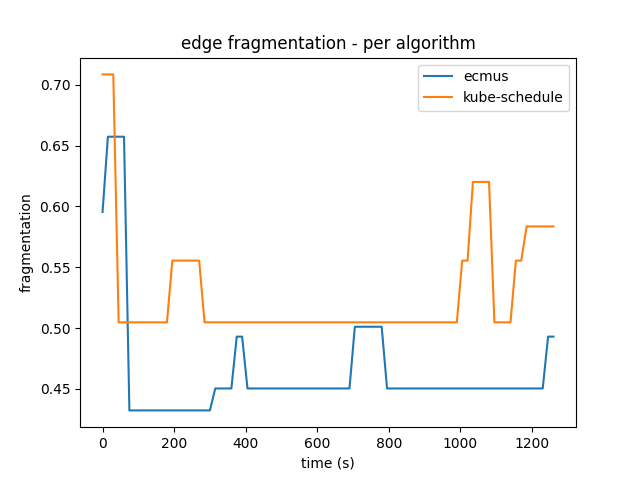
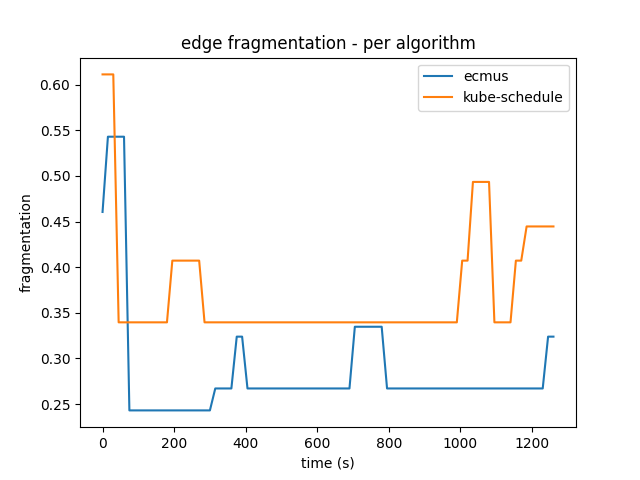
Add edge fragemntation script

diff --git a/extractors/scripts.py b/extractors/scripts.py
@@ -296,16 +296,16 @@ def edge_fragmentation_linechart(config: Config, histories: List[History]) -> No
     kube_schedule_fragmentation = []
     kube_schedule_timestamps = []
 
-    number_of_nodes = len(config.nodes)
+    edge_nodes_count = len([node for node in config.nodes.values() if node.is_on_edge])
     for index, history in enumerate(histories):
         for cycle in history.cycles:
-            cluster_usage = 0
+            edge_usage = 0
             for node in cycle.pod_placement.node_pods.keys():
                 if node.is_on_edge:
                     cpu_usage, memory_usage = calculate_resource_usage_for_node(cycle, node)
-                    cluster_usage += math.sqrt(cpu_usage * memory_usage)
+                    edge_usage += math.sqrt(cpu_usage * memory_usage)
 
-            fragmentation = 1 - (cluster_usage / number_of_nodes)
+            fragmentation = 1 - (edge_usage / edge_nodes_count)
             if index == 0:
                 ecmus_timestamps.append(cycle.timestamp)
                 ecmus_fragmentation.append(fragmentation)
